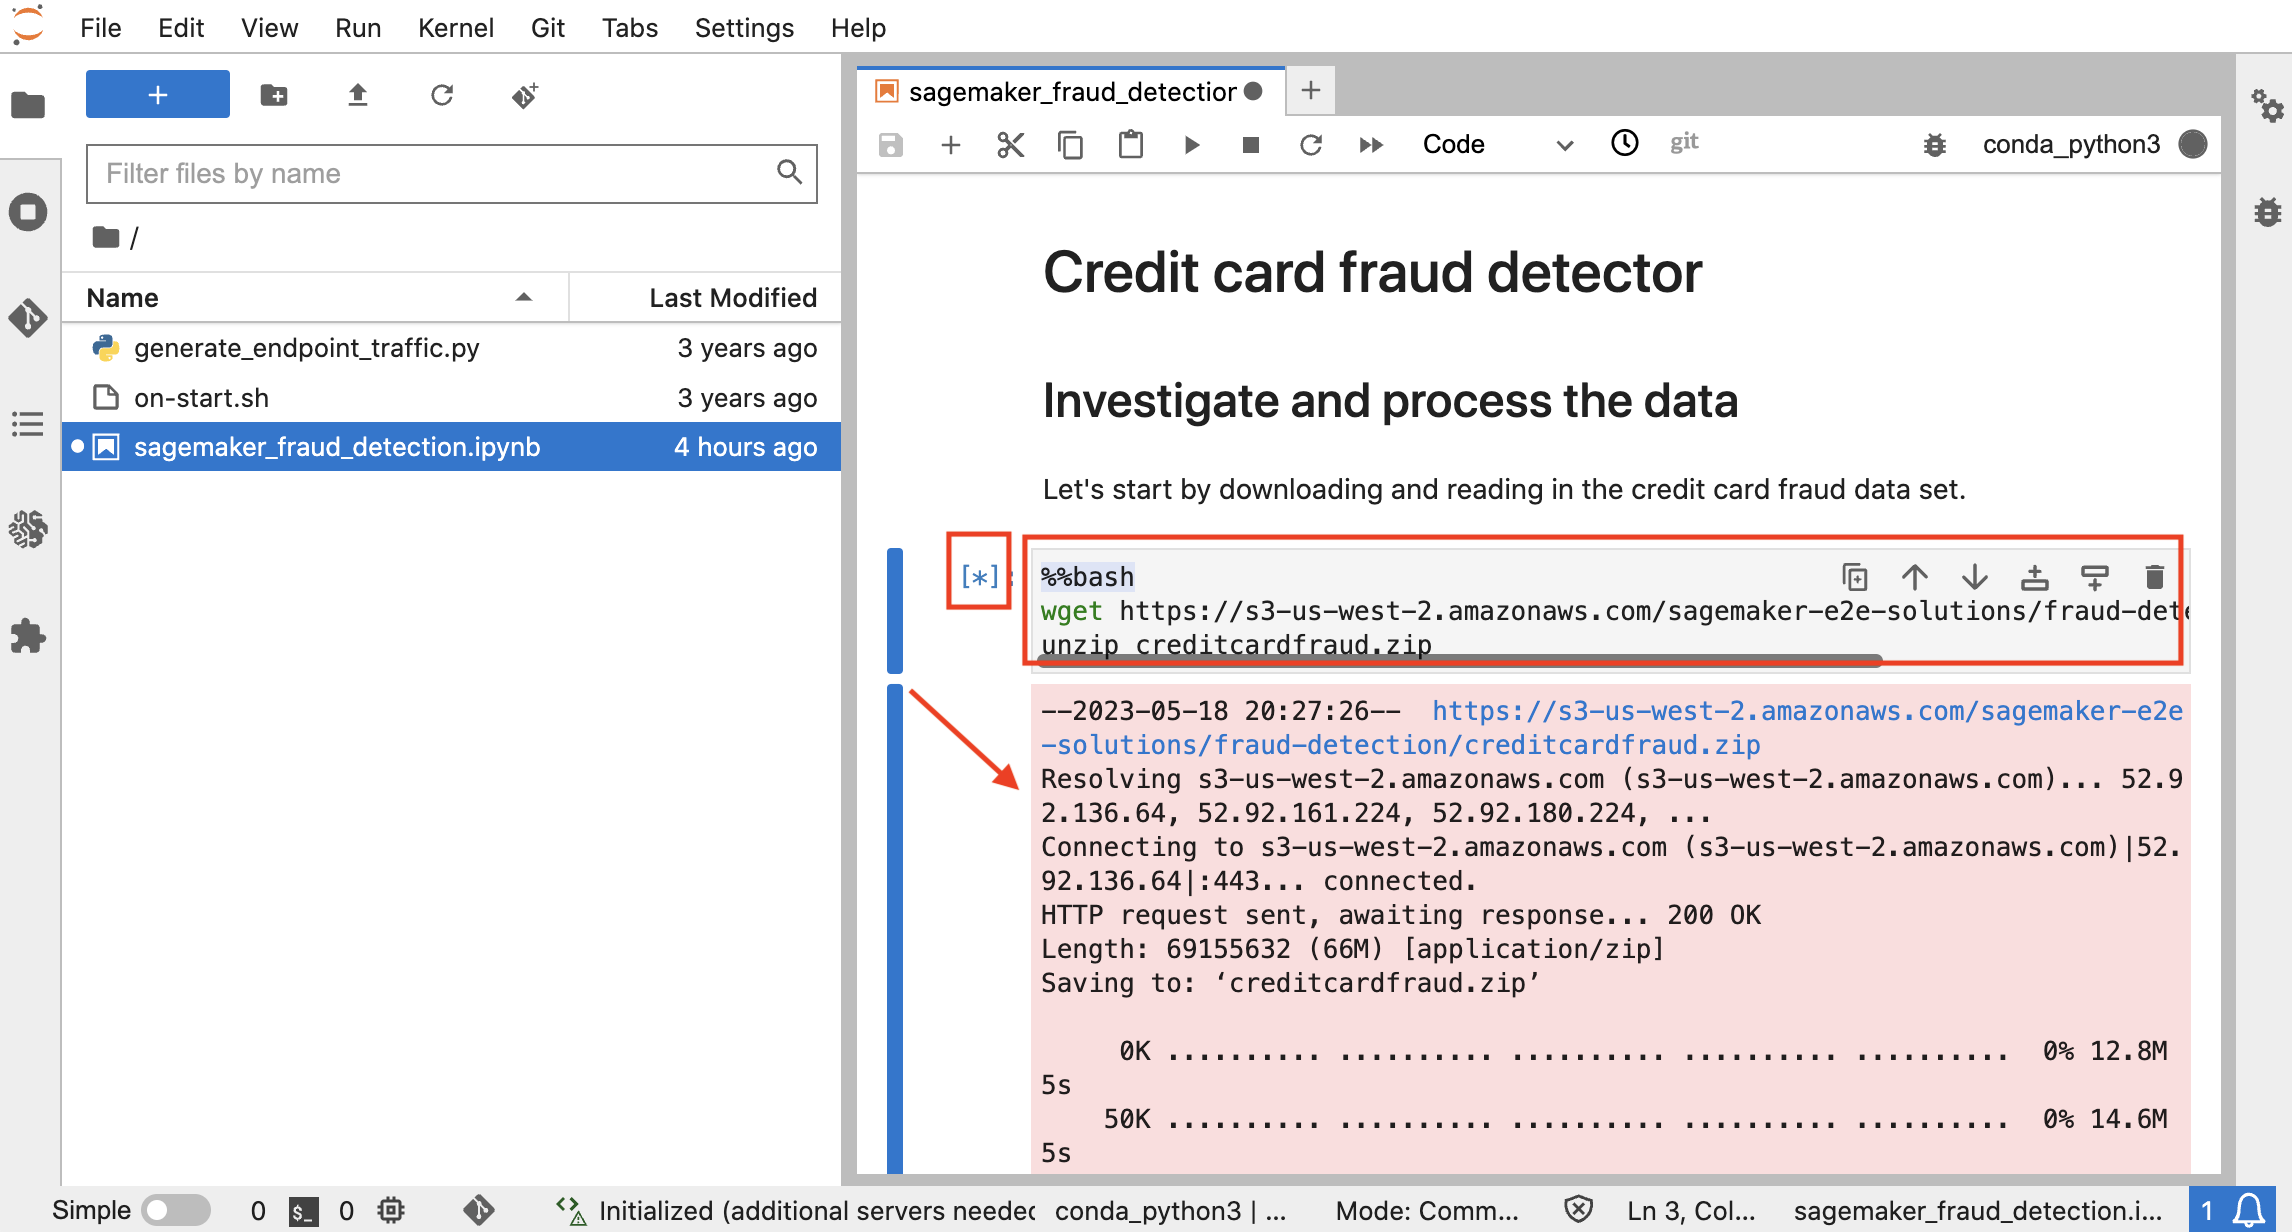
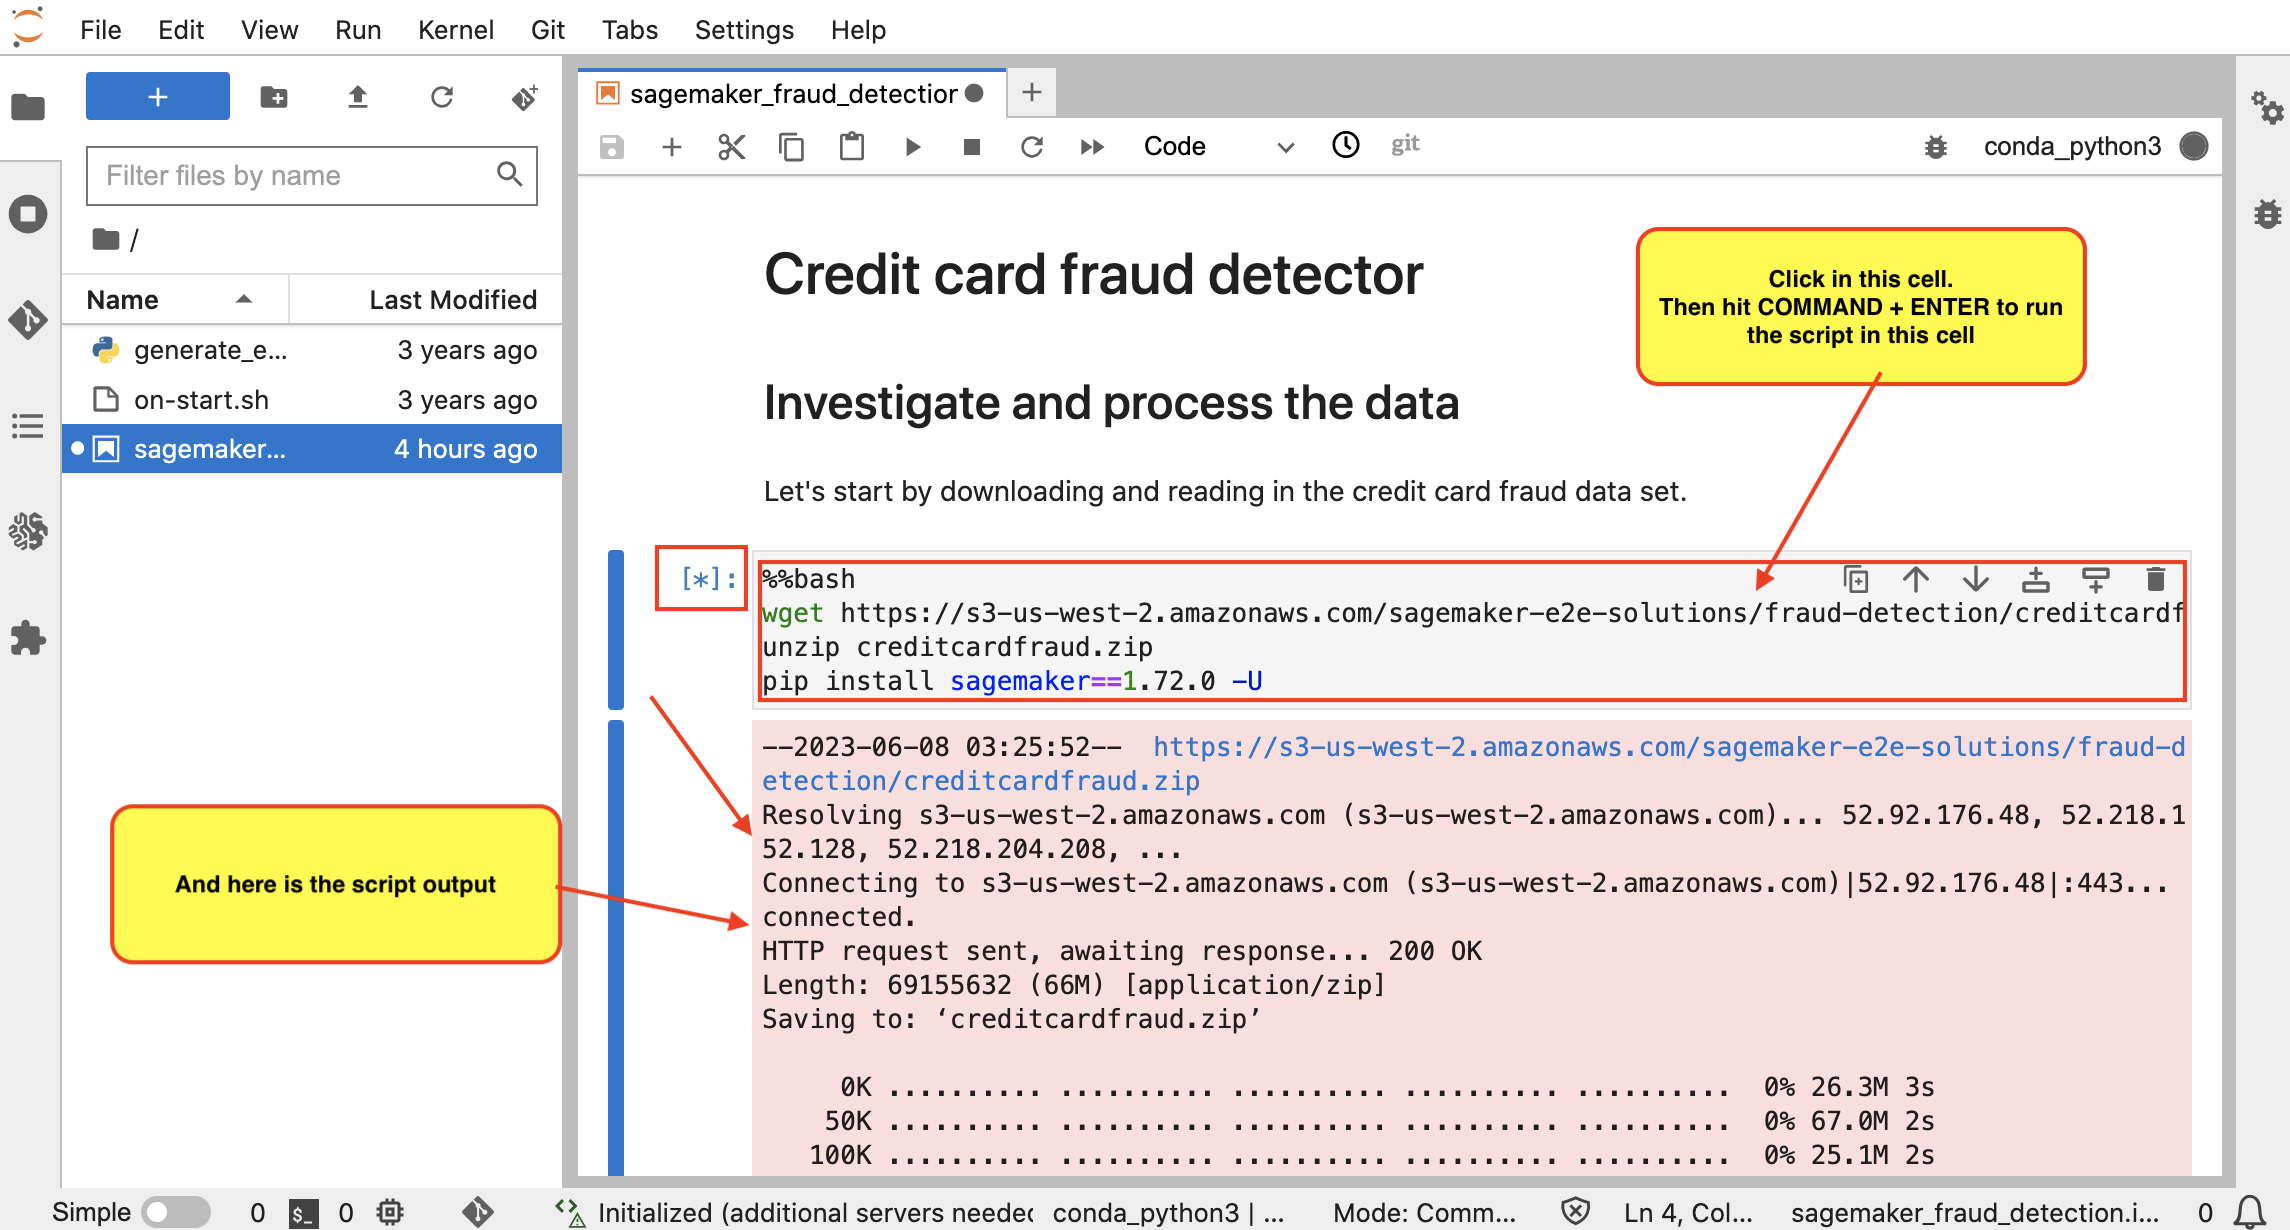
Lab 02 corrected with newer instructions based on the SageMaker python dependencies

diff --git a/Lab 2 - Train, Test and Deploy SageMaker Models/README.md b/Lab 2 - Train, Test and Deploy SageMaker Models/README.md
@@ -19,6 +19,31 @@ You are now ready to run the Amazon SageMaker Notebook. You will create the foll
 
 So, lets get started.
 
+00. IMPORTANT Preparatory Step. Its always important to ensure correct `SageMaker` libraries are being used. To do this. We will insert the following line in the first cell, right after `unzip` command.
+
+Line to be inserted:
+```
+pip install sagemaker==1.72.0 -U
+```
+
+In other words, before the change, the code in the first cell looks like this:
+```
+%%bash
+wget https://s3-us-west-2.amazonaws.com/sagemaker-e2e-solutions/fraud-detection/creditcardfraud.zip
+unzip creditcardfraud.zip
+```
+After the change, it should look like this:
+```
+%%bash
+wget https://s3-us-west-2.amazonaws.com/sagemaker-e2e-solutions/fraud-detection/creditcardfraud.zip
+unzip creditcardfraud.zip
+pip install sagemaker==1.72.0 -U
+```
+
+Also ensure that the `conda_python3` environment is selected.
+![](images/00-sagemaker-model.png)
+
+
 01. Each cell highlighted has a python code that will be executed when you press `COMMAND` + `ENTER` on a Mac OR `Cntrl` + `ENTER` on a Window's machine.
 We are going to run this notebook, cell by cell in a sequential manner, after ensuring that the previous step is executed.
 
@@ -37,7 +62,15 @@ To understand if a specific cell has been executed or not, please notice the `[ 
 
 ![](images/03-sagemaker-model.png)
 
-04. In this way, you are going to execute all fo the subsequent cells, one by one, in a sequential manner.
+Before you execute further steps, let us re-start the Kernel by clicking on this button shown below. This will ensure that the right `Sagemaker` libraries are used.
+
+![](images/04a-sagemaker-model.png)
+
+![](images/04b-sagemaker-model.png)
+
+After the shell is restarted, you can further proceed. However, please skip the first cell and proceed further.
+
+04. In this way, you are going to execute all of the subsequent cells, one by one, in a sequential manner.
 
 ![](images/04-sagemaker-model.png)
 
@@ -128,16 +161,17 @@ To understand if a specific cell has been executed or not, please notice the `[ 
 
 
 24. When you execute this code, it may give an error, as shown below.
+NOTE: If it does not give any error, simply execute and move forward.
 
 ![](images/24-sagemaker-model.png)
 
 
-25. Simply comment out the first line ending with `text/csv` and re-execute the cell. This time, it is erroring out on the line ending as `application/json`.  Comment out this line too and re-execute.
+25. IGNORE this if you have no error mentioned above:  Simply comment out the first line ending with `text/csv` and re-execute the cell. This time, it is erroring out on the line ending as `application/json`.  Comment out this line too and re-execute.
 
 ![](images/25-sagemaker-model.png)
 
 
-26. If you comment out the code as shown , then you should be able to run the cell successfully
+26. IGNORE this if you have no error mentioned above: If you comment out the code as shown , then you should be able to run the cell successfully
 
 ![](images/26-sagemaker-model.png)
 
@@ -199,18 +233,19 @@ To understand if a specific cell has been executed or not, please notice the `[ 
 ![](images/30-sagemaker-model.png)
 
 41. The first cell in the Host Classifier may run in to errors, like shown here.
+NOTE: If it does not give any error, simply execute and move forward.
 
 ![](images/41-sagemaker-model.png)
 
-42. And here is the error.
+42. IGNORE this if you have no error mentioned above: And here is the error.
 
 ![](images/42-sagemaker-model.png)
 
-43. Simply comment out the last line and re-execute.
+43. IGNORE this if you have no error mentioned above: Simply comment out the last line and re-execute.
 
 ![](images/43-sagemaker-model.png)
 
-44. When you re-execute the code, this time around it successfully executes the code and creates the endpoints
+44. When you execute tis code, it successfully executes the code and creates the endpoints
 
 ![](images/44-sagemaker-model.png)
 
